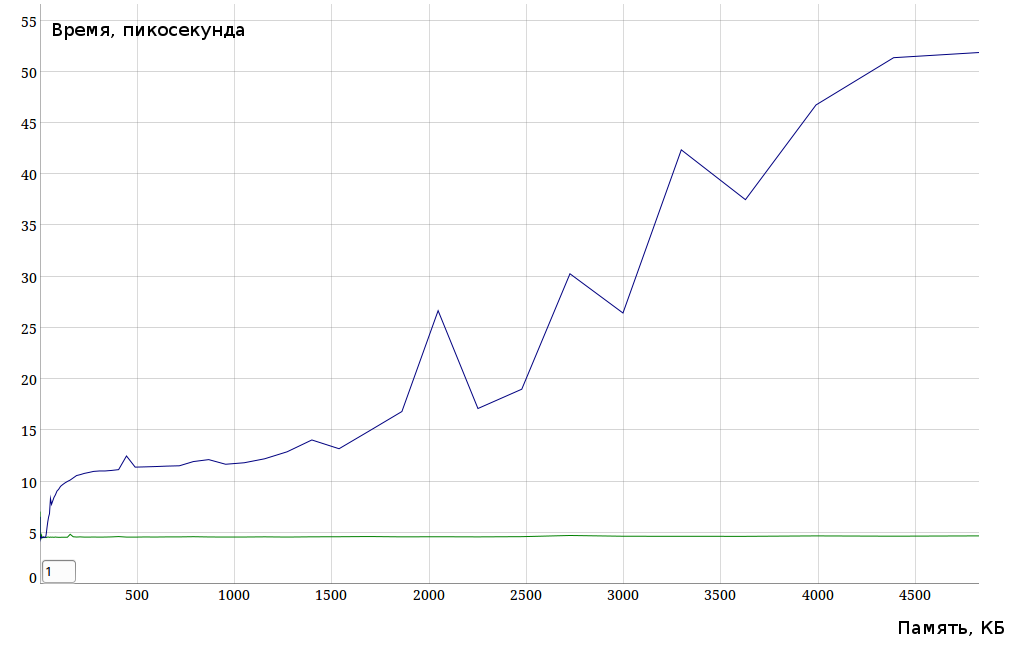
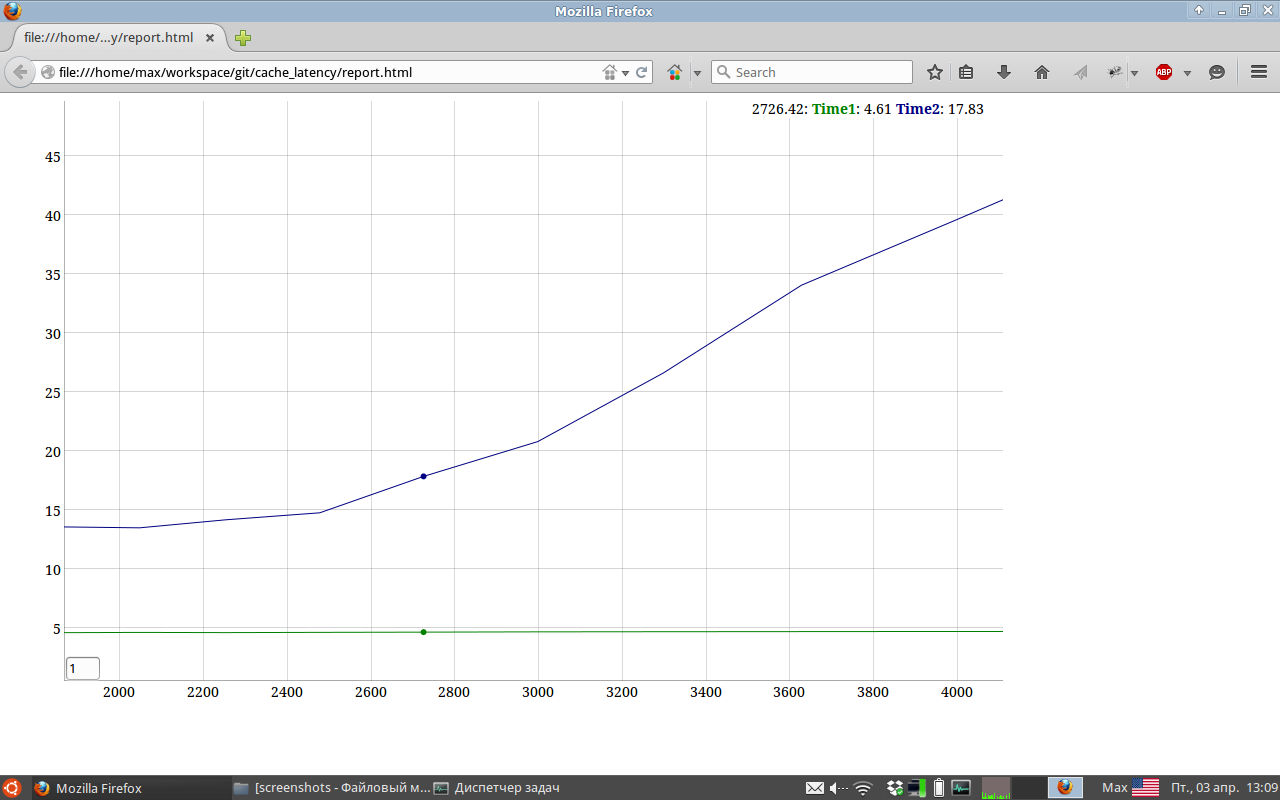
Fix report

diff --git a/README.md b/README.md
@@ -19,18 +19,19 @@
 
 ![Alt text](https://github.com/streambuf/cache_latency/blob/master/screenshots/1.png "")
 
-Видно, как резко возрастает время обращения к cache после 30KB, из этого следует, что процессор начал обращаться уже к L2 cache.
-Таким образом, экспериментально удалось выяснить, что размер L1 = 30KB. Приблизительно такое же значения и в спецификации (L1 cache 32KB)
+Здесь показано как менялось время при размере списка от 1КБ до 5МБ
 
 ## График №2
 
-Видно, как резко возрастает время обращения к cache после 3000KB, из этого следует, что процессор начал обращаться уже к оперативной памяти.
-Таким образом, экспериментально удалось выяснить, что размер L2 = 3000KB. Приблизительно такое же значения и в спецификации (L2 cache 3072KB)
+Видно, как резко возрастает время обращения к cache после 31KB, из этого следует, что процессор начал обращаться уже к L2 cache.
+Таким образом, экспериментально удалось выяснить, что размер L1 = 31KB. Приблизительно такое же значения и в спецификации (L1 cache 32KB)
 
 ![Alt text](https://github.com/streambuf/cache_latency/blob/master/screenshots/2.png "")
 
 ## График №3
 
-Здесь показано как менялось время при размере списка от 1КБ до 5МБ
+Видно, как резко возрастает время обращения к cache после 2500KB, из этого следует, что процессор начал обращаться уже к оперативной памяти.
+Таким образом, экспериментально удалось выяснить, что размер L2 = 2500KB. Получилась довольно большая пограшность, т.к. в спецификации (L2 cache 3072KB).
+Тут могло сыграть множество факторов, т.к. с кэшем работала не только моя программа. Да и на графике видно, что после 3000KB время обращения к кэшу стало еще больше.
 
 ![Alt text](https://github.com/streambuf/cache_latency/blob/master/screenshots/3.png "")
